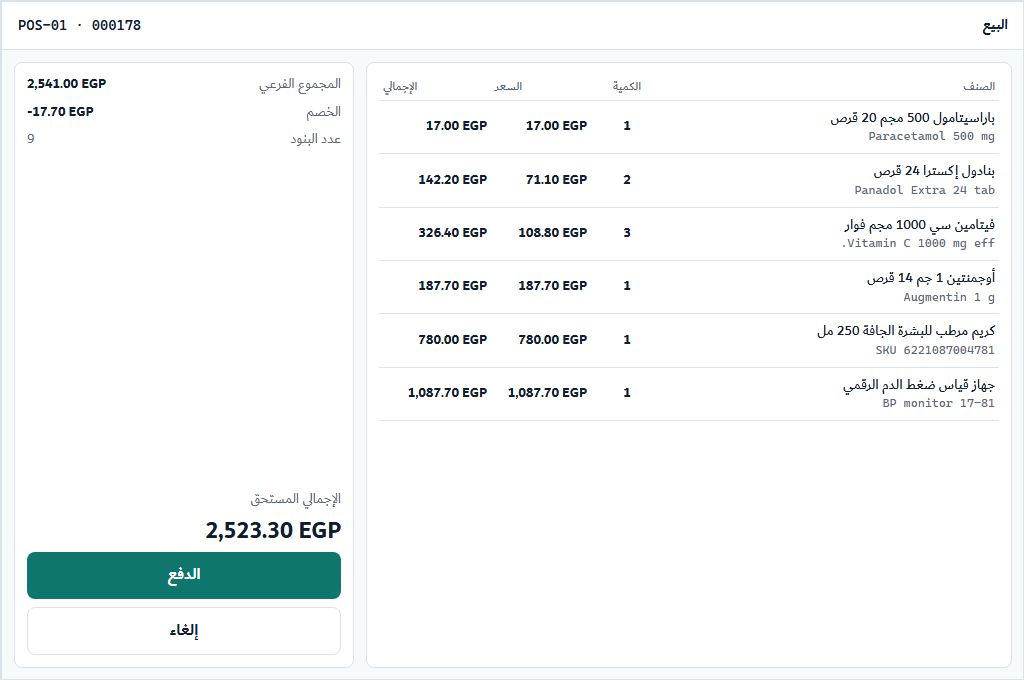
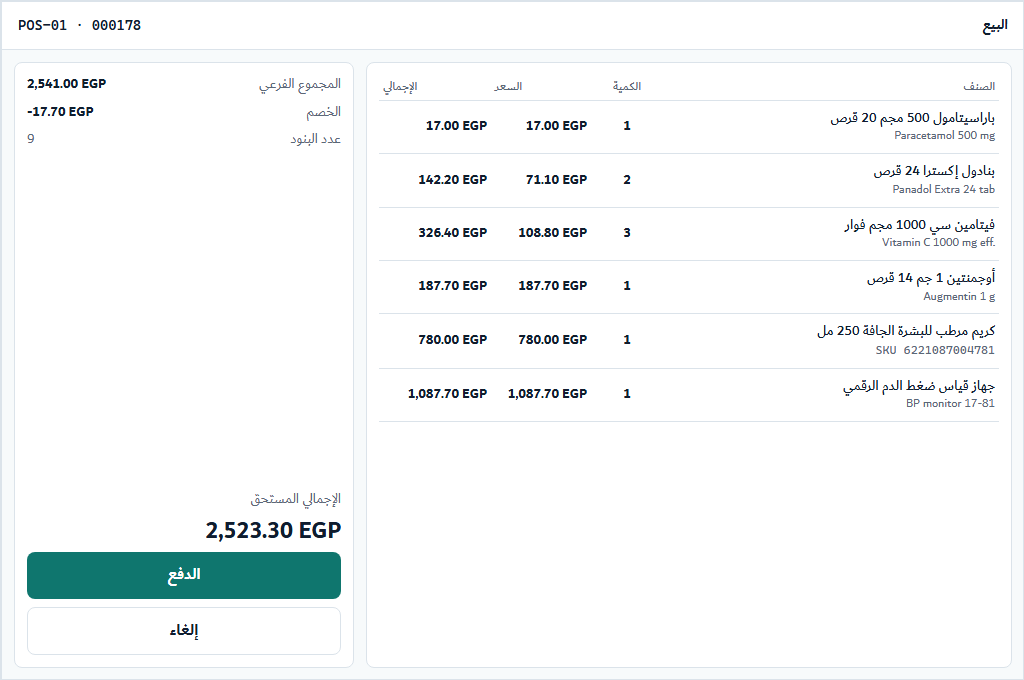
docs(RT-262): descriptions in UI font, bdi-isolated; clarify variant B wording

diff --git a/docs/design/vnext/30-rt262-money-typography-ab.html b/docs/design/vnext/30-rt262-money-typography-ab.html
@@ -103,7 +103,7 @@ var LINES = [
   { n: 'بنادول إكسترا 24 قرص', s: 'Panadol Extra 24 tab', q: 2, u: 71.10 },
   { n: 'فيتامين سي 1000 مجم فوار', s: 'Vitamin C 1000 mg eff.', q: 3, u: 108.80 },
   { n: 'أوجمنتين 1 جم 14 قرص', s: 'Augmentin 1 g', q: 1, u: 187.70 },
-  { n: 'كريم مرطب للبشرة الجافة 250 مل', s: 'SKU 6221087004781', q: 1, u: 780.00 },
+  { n: 'كريم مرطب للبشرة الجافة 250 مل', s: 'SKU 6221087004781', sku: 1, q: 1, u: 780.00 },
   { n: 'جهاز قياس ضغط الدم الرقمي', s: 'BP monitor 17-81', q: 1, u: 1087.70 }
 ];
 function fmt(x) { return x.toLocaleString('en-US', { minimumFractionDigits: 2, maximumFractionDigits: 2 }); }
@@ -114,7 +114,7 @@ var DISC = 17.70, TOTAL = SUB - DISC, RECV = 3000, CHANGE = RECV - TOTAL;
 function topbar(t) { return '<div class="top"><span>' + t + '</span><span class="id">POS-01 · 000178</span></div>'; }
 function sale(w) {
   var rows = LINES.map(function (l) {
-    return '<div class="row"><div class="name">' + l.n + '<small class="id">' + l.s + '</small></div>' +
+    return '<div class="row"><div class="name">' + l.n + '<small><bdi dir="ltr"' + (l.sku ? ' class="id"' : '') + '>' + l.s + '</bdi></small></div>' +
       '<bdi dir="ltr" class="qty">' + l.q + '</bdi>' + m(l.u) + m(l.q * l.u) + '</div>';
   }).join('');
   return '<div class="frame sale w' + w + '">' + topbar('البيع') + '<div class="body">' +

diff --git a/docs/design/vnext/30-rt262-money-typography-ab.md b/docs/design/vnext/30-rt262-money-typography-ab.md
@@ -124,8 +124,8 @@ records the comparison only; it does not decide the font or the money style.
   1024. Looks different on a machine without Cascadia Code. Mixes two type voices in one row (a
   proportional Arabic label beside a mono value).
 - **B (Dubai + tabular sans).** Same face as the Arabic, so a row reads as one voice. Narrowest (161 px against 206 px for A).
-  Digits align as well as A in the specimens. **No font, licence or bundle change.** The only
-  change is the money family token.
+  Digits align as well as A in the specimens. **No new font file, licence or bundle.** The only
+  change is the money family token (it still needs a bounded token slice).
 - **C (Plex + mono).** Needs the Plex bundle and keeps the mono width cost. Gains nothing the
   other options do not already offer.
 - **D (Plex + tabular sans).** One voice and consistent across machines. 16% wider than Dubai
